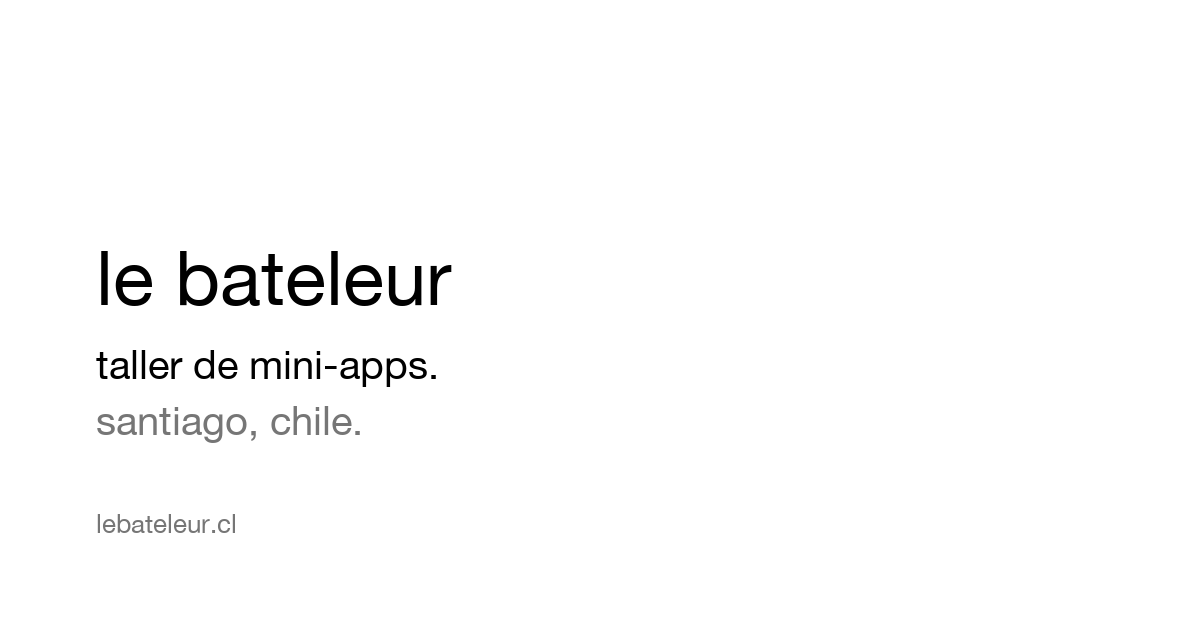
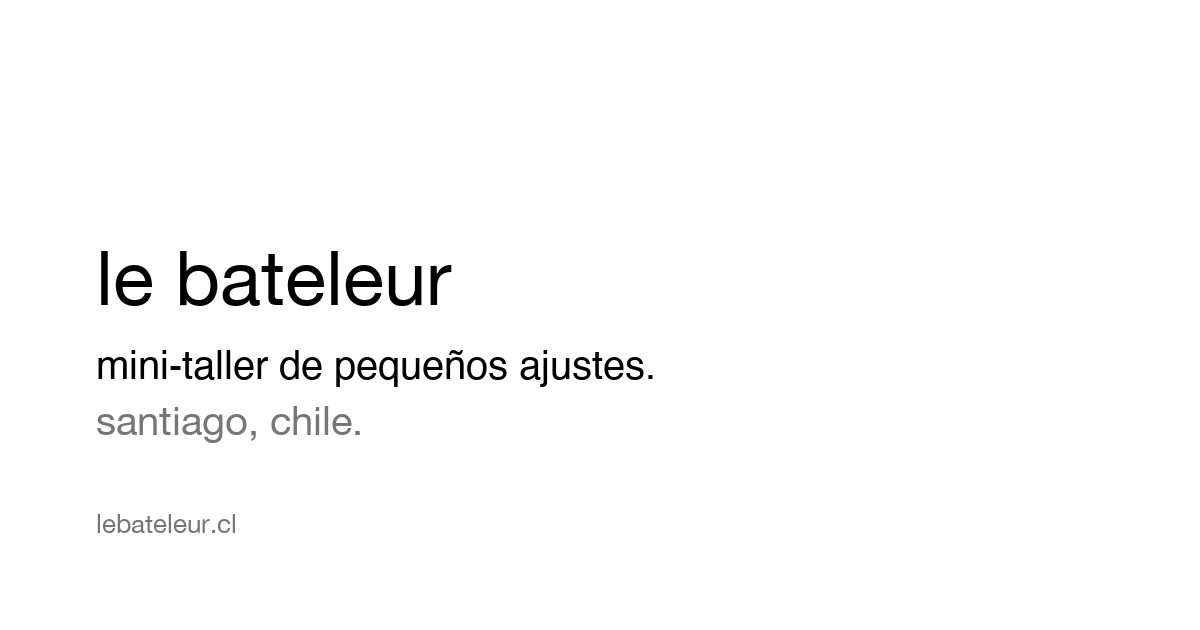
Reframe the site around small adjustments, not mini-apps
The home bio, the meta descriptions, the page title and the og:image all
described le bateleur as a workshop of mini-apps. The framing is now the
adjustments themselves — how we write, read, create and browse the web —
so every place that carried the old wording moves together.

og.png keeps its original layout: only the subtitle line was redrawn, on
the same baseline and at the same size as the text it replaced.

Changed region(s): [[0.0617, 0.5429, 0.555, 0.6032]]

diff --git a/index.html b/index.html
@@ -3,19 +3,19 @@
 <head>
 <meta charset="utf-8">
 <meta name="viewport" content="width=device-width, initial-scale=1">
-<title>le bateleur | taller de mini-apps</title>
-<meta name="description" content="le bateleur es un mini-taller donde se ponen a prueba ideas simples usando mini-apps como medio — lo que registro es cuánto mueve cada una el ángulo sobre algo.">
-<meta property="og:title" content="le bateleur | taller de mini-apps">
-<meta property="og:description" content="le bateleur es un mini-taller donde se ponen a prueba ideas simples usando mini-apps como medio — lo que registro es cuánto mueve cada una el ángulo sobre algo.">
+<title>le bateleur | mini-taller de pequeños ajustes</title>
+<meta name="description" content="le bateleur es un mini-taller que introduce pequeños ajustes en cómo escribimos, leemos, creamos o navegamos la web, para que lo que encontremos sea más único y lo que dejemos en ella, más nuestro.">
+<meta property="og:title" content="le bateleur | mini-taller de pequeños ajustes">
+<meta property="og:description" content="le bateleur es un mini-taller que introduce pequeños ajustes en cómo escribimos, leemos, creamos o navegamos la web, para que lo que encontremos sea más único y lo que dejemos en ella, más nuestro.">
 <meta property="og:type" content="website">
 <meta property="og:url" content="https://lebateleur.cl/">
 <meta property="og:image" content="https://lebateleur.cl/og.png">
 <meta property="og:image:width" content="1200">
 <meta property="og:image:height" content="630">
-<meta property="og:image:alt" content="le bateleur — un mini-taller donde se ponen a prueba ideas simples usando mini-apps.">
+<meta property="og:image:alt" content="le bateleur — un mini-taller de pequeños ajustes en cómo escribimos, leemos, creamos y navegamos la web.">
 <meta name="twitter:card" content="summary_large_image">
-<meta name="twitter:title" content="le bateleur | taller de mini-apps">
-<meta name="twitter:description" content="le bateleur es un mini-taller donde se ponen a prueba ideas simples usando mini-apps como medio — lo que registro es cuánto mueve cada una el ángulo sobre algo.">
+<meta name="twitter:title" content="le bateleur | mini-taller de pequeños ajustes">
+<meta name="twitter:description" content="le bateleur es un mini-taller que introduce pequeños ajustes en cómo escribimos, leemos, creamos o navegamos la web, para que lo que encontremos sea más único y lo que dejemos en ella, más nuestro.">
 <meta name="twitter:image" content="https://lebateleur.cl/og.png">
 <link rel="canonical" href="https://lebateleur.cl/">
 
@@ -53,9 +53,9 @@
     <p class="para">
       hola, soy rafa, escritor en le bateleur.
       <br><br>
-      le bateleur es un mini-taller donde se ponen a prueba ideas simples
-      usando mini-apps como medio — lo que registro es cuánto mueve cada una
-      el ángulo sobre algo
+      le bateleur es un mini-taller que introduce pequeños ajustes en cómo
+      escribimos, leemos, creamos o navegamos la web, para que lo que
+      encontremos sea más único y lo que dejemos en ella, más nuestro.
     </p>
 
     <h2 class="para para--heading">Taller</h2>
